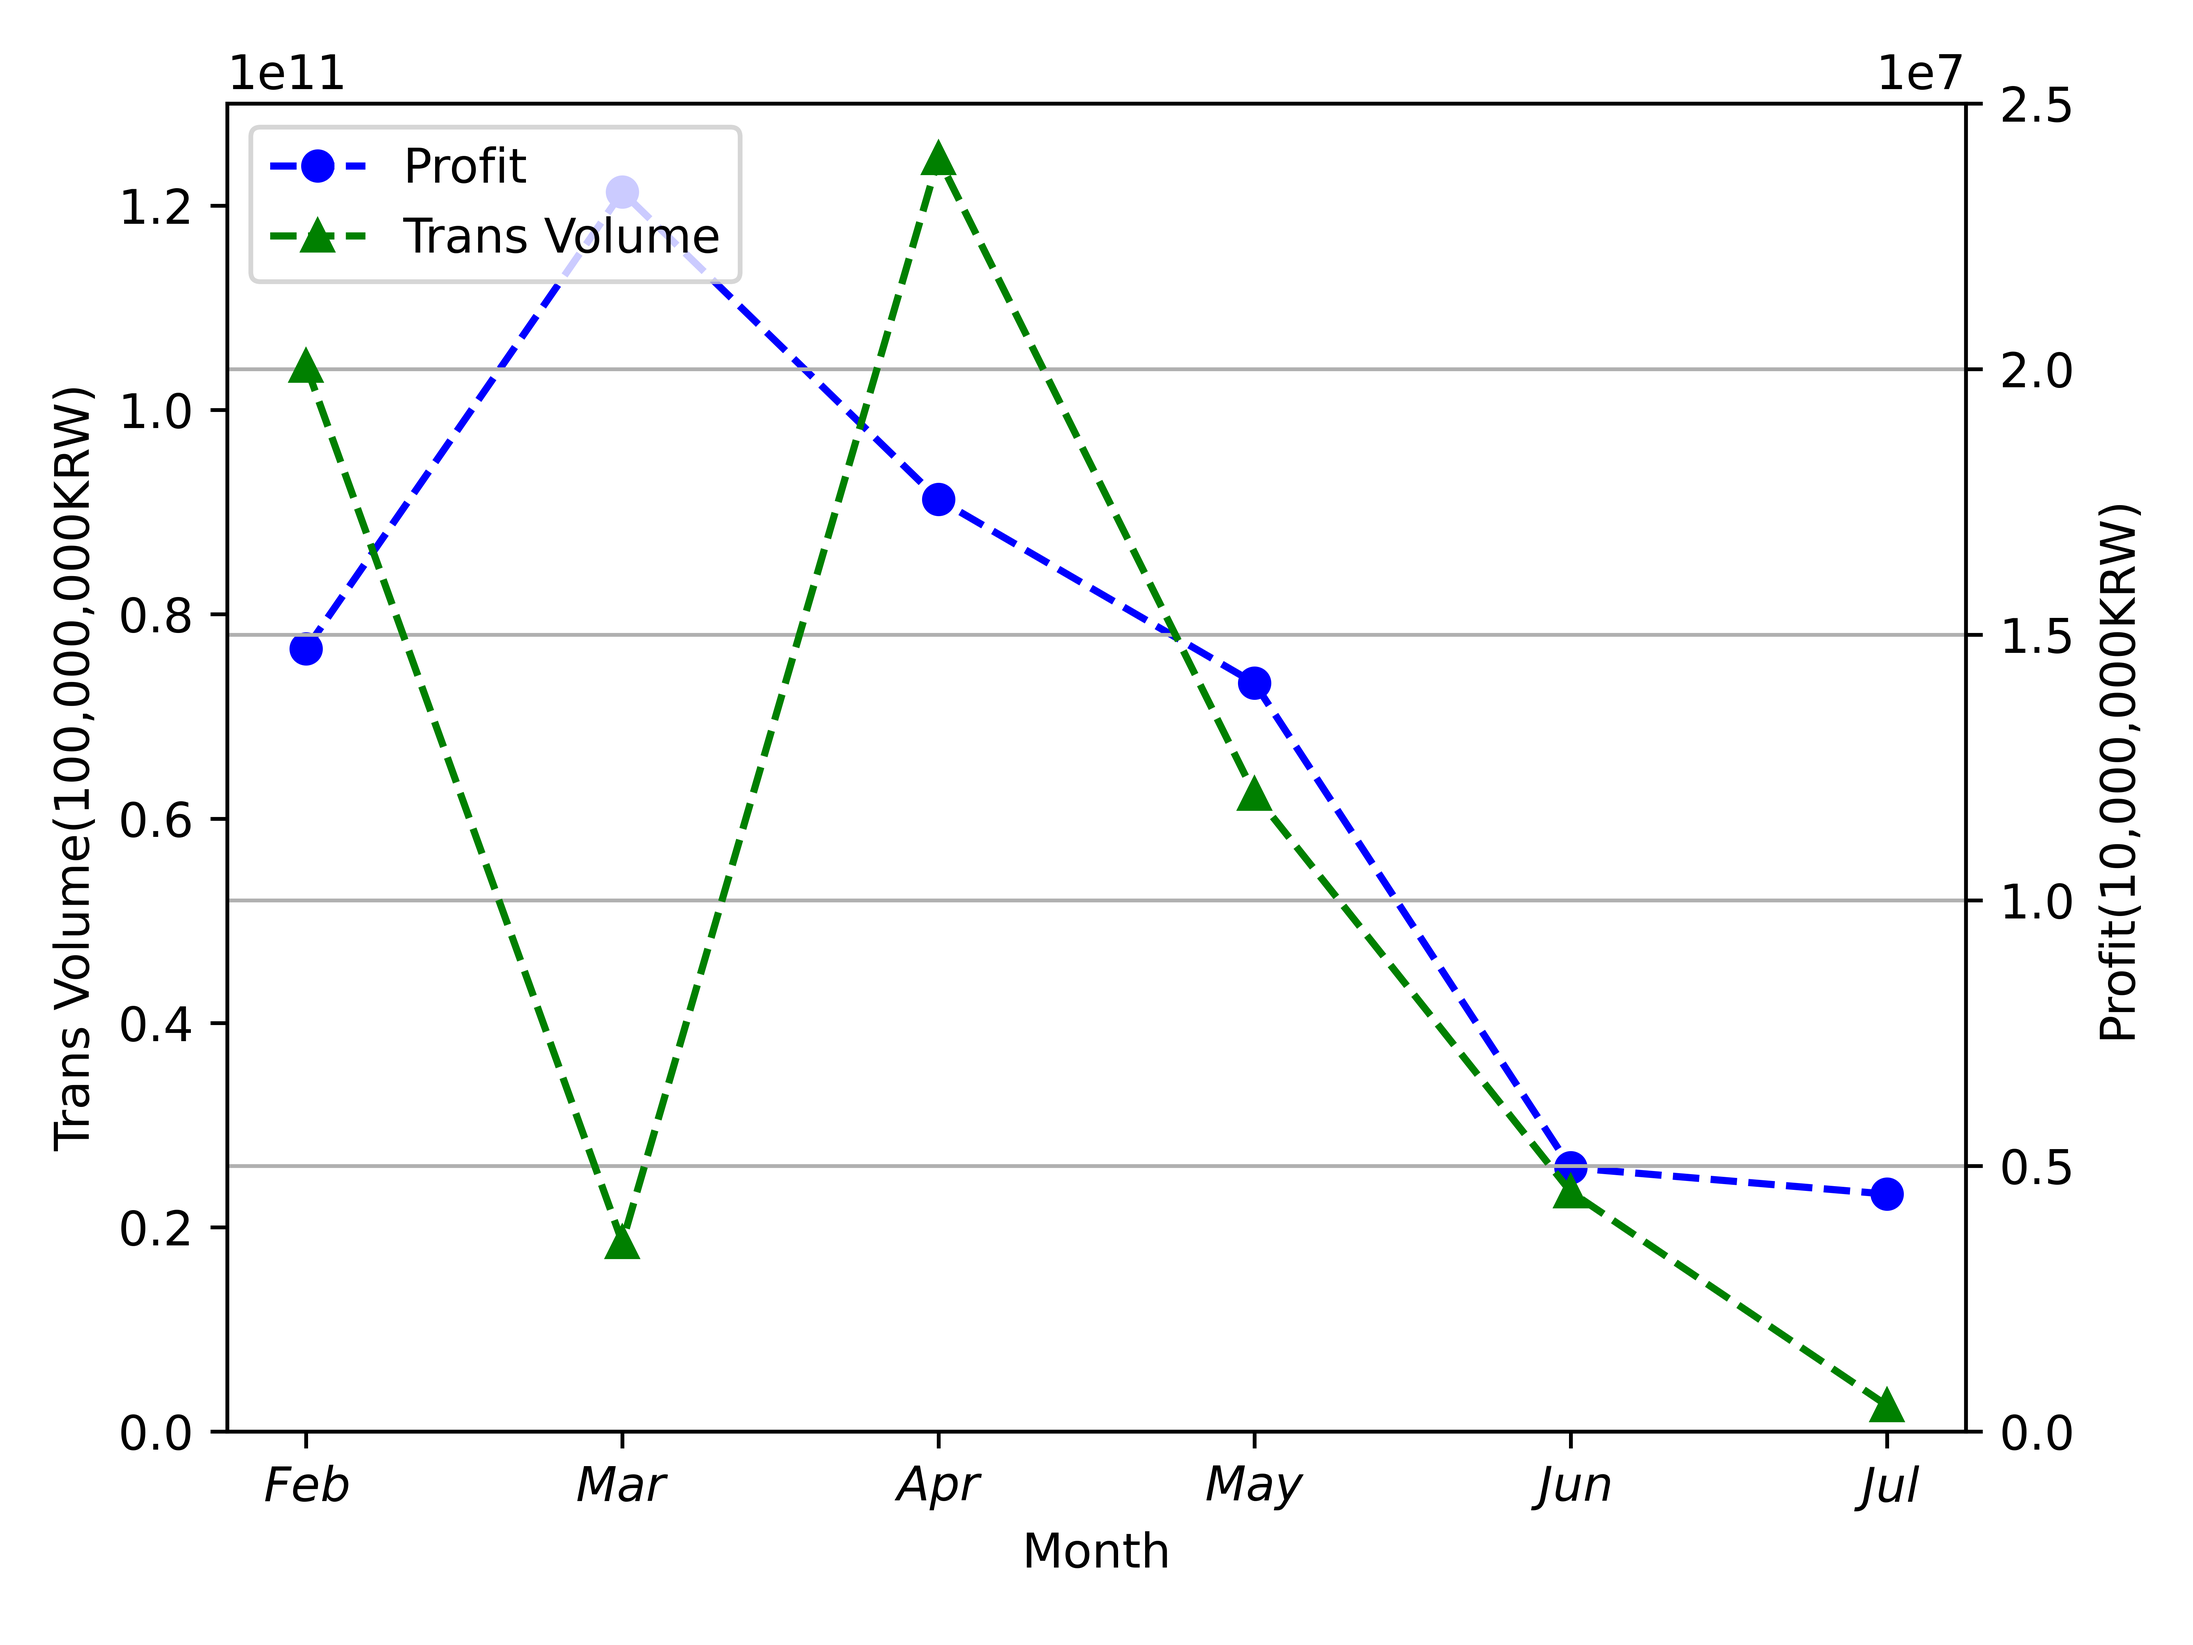
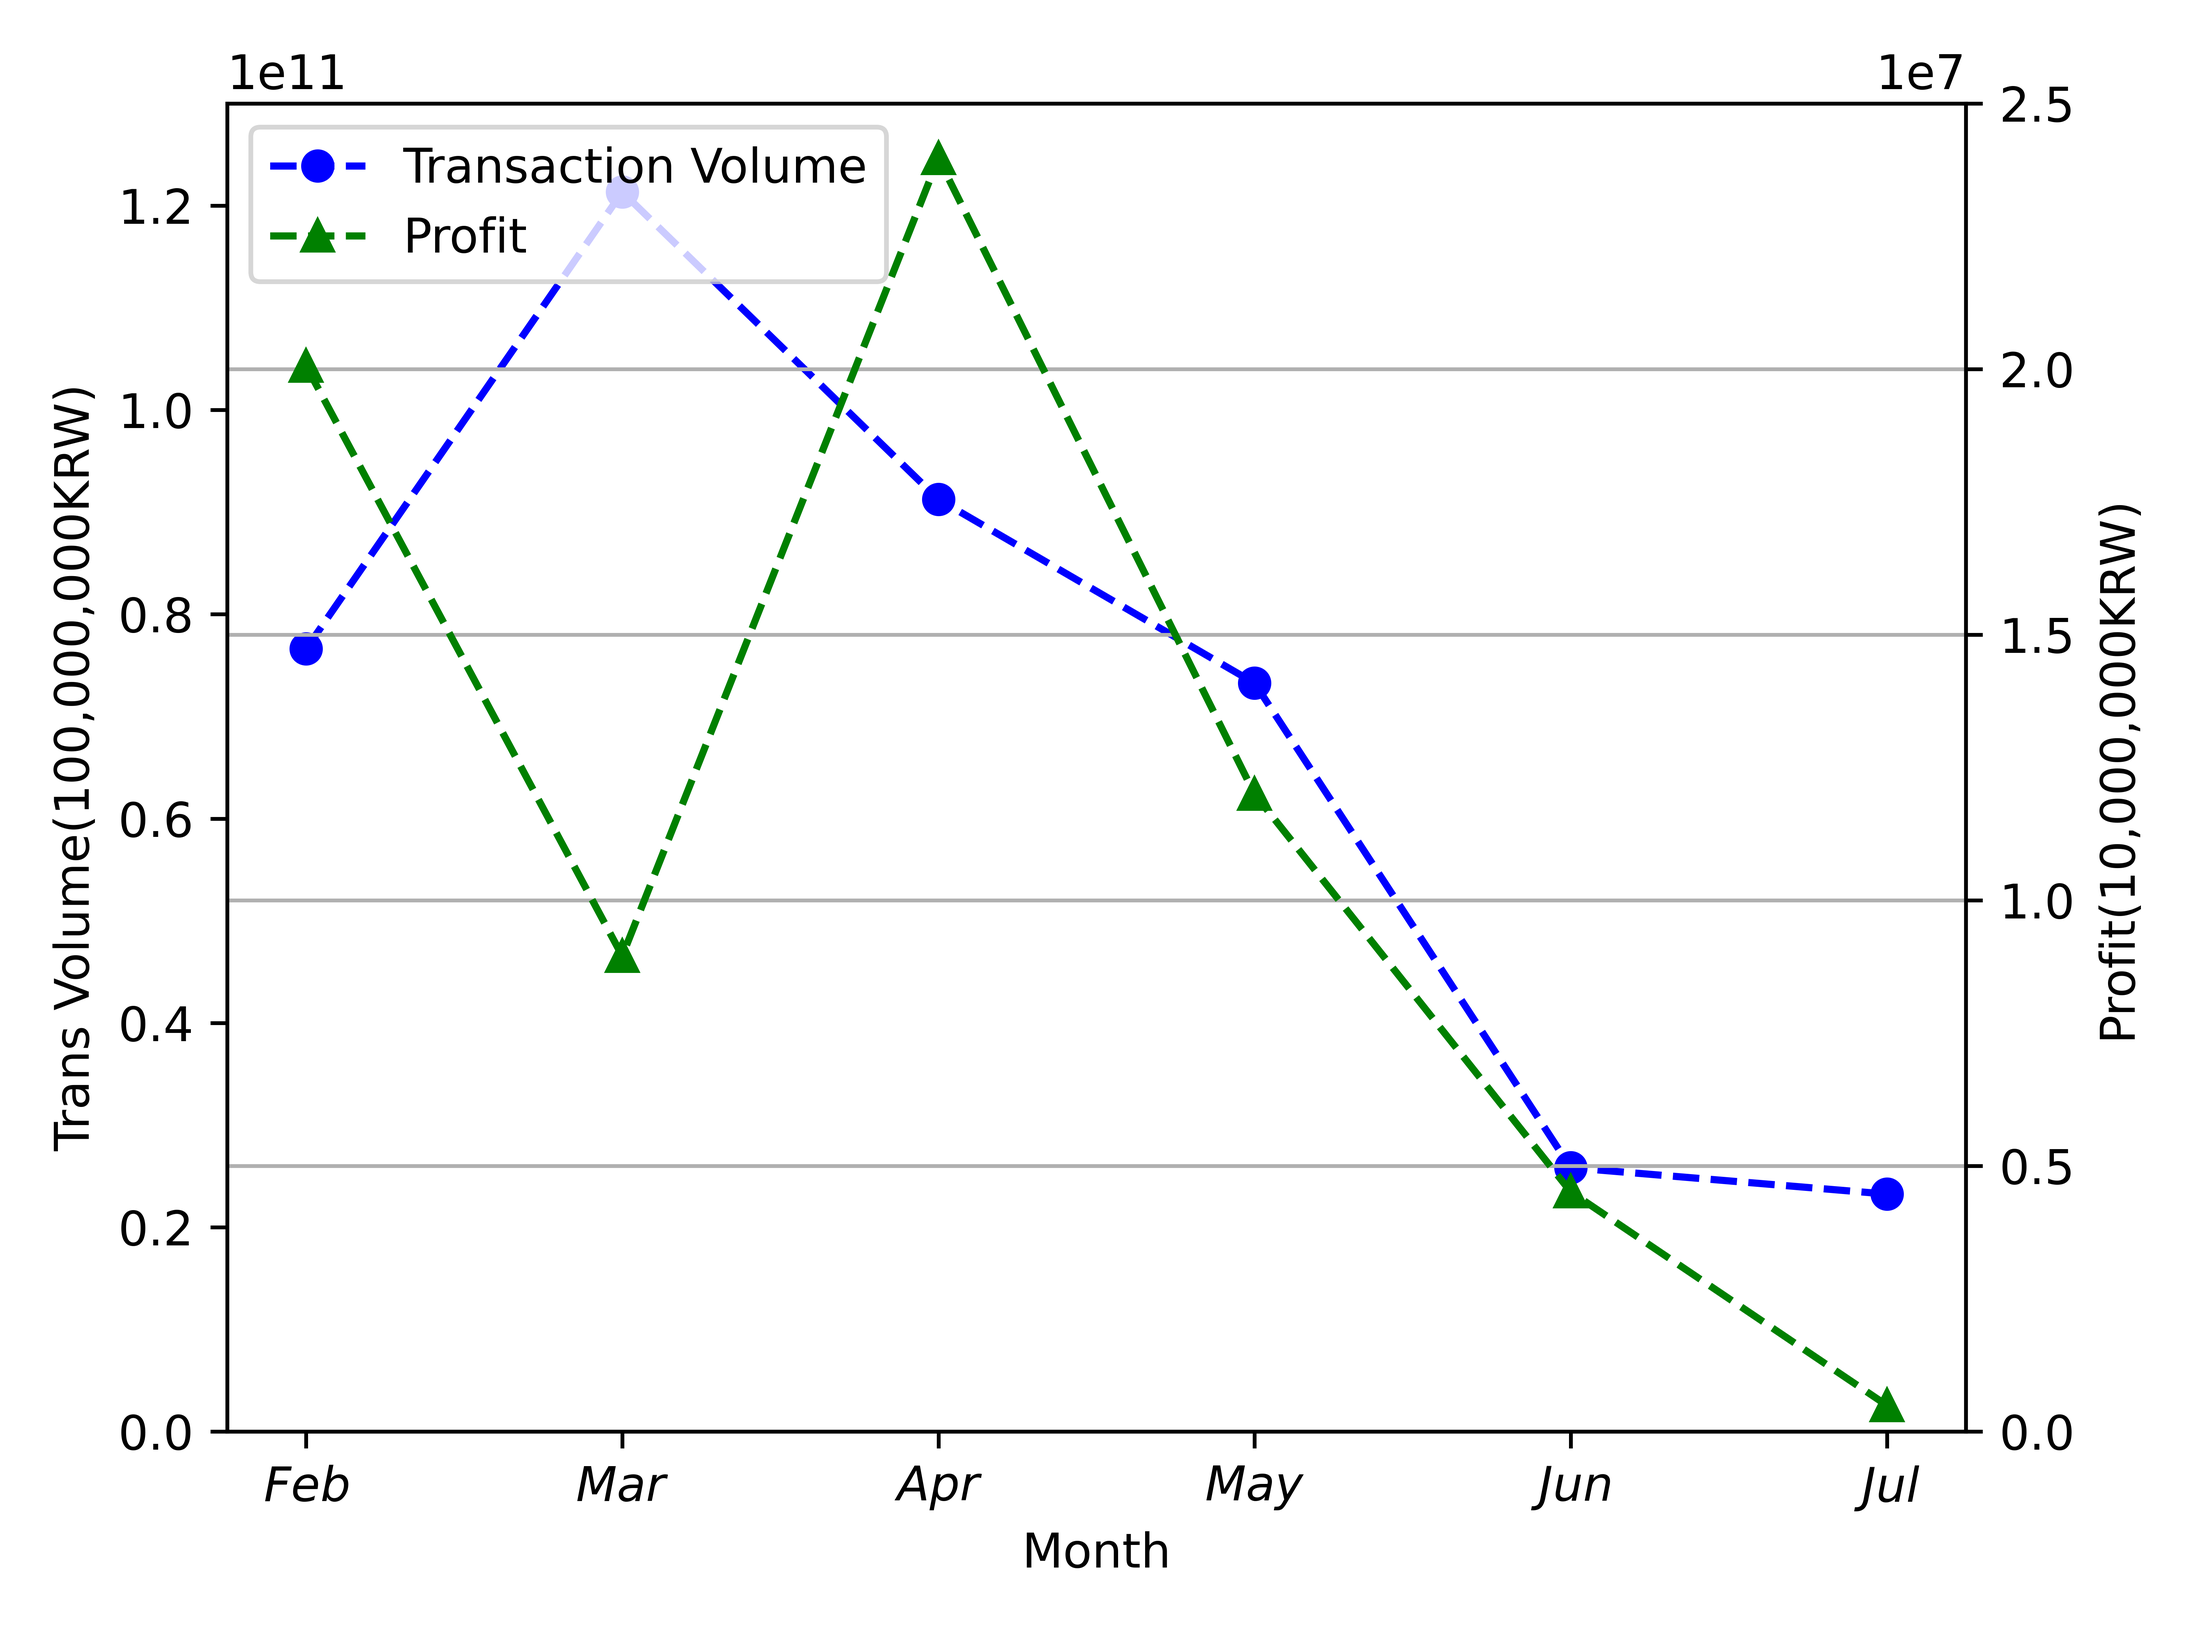
edit trans

diff --git a/Bit/volume-profit.py b/Bit/volume-profit.py
@@ -4,7 +4,7 @@ import matplotlib.pyplot as plt
 
 x = ['Feb','Mar','Apr','May','Jun','Jul']
 y1 = [76615774359,121327294696,91245444410,73256553726,25829874334,23244686413]
-y2 = [20057445,3562946,23967448,11999306,4513842,494149]
+y2 = [20057445,8951034,23967448,11999306,4513842,494149]
 # y3 = data_set['data3']
 
 fig, ax1 = plt.subplots()
@@ -12,8 +12,8 @@ ax2 = ax1.twinx()
 
 # plot with properties
 
-line1 = ax1.plot(np.arange(len(x)), y1, color='b', linestyle='--', marker='o', label='Profit')
-line2 = ax2.plot(np.arange(len(x)), y2, color='g', linestyle='--', marker='^', label='Trans Volume')
+line1 = ax1.plot(np.arange(len(x)), y1, color='b', linestyle='--', marker='o', label='Transaction Volume')
+line2 = ax2.plot(np.arange(len(x)), y2, color='g', linestyle='--', marker='^', label='Profit')
 # line3 = ax2.plot(np.arange(len(x)), y3, color='r', linestyle='--', marker='s', label=title[3])
 
 # plot without x sorting

diff --git a/Bit/volume-Trans.py b/Bit/volume-Trans.py
@@ -12,8 +12,8 @@ ax2 = ax1.twinx()
 
 # plot with properties
 
-line1 = ax1.plot(np.arange(len(x)), y1, color='b', linestyle='--', marker='o', label='Profit')
-line2 = ax2.plot(np.arange(len(x)), y2, color='g', linestyle='--', marker='^', label='Trans Percentage')
+line1 = ax1.plot(np.arange(len(x)), y1, color='b', linestyle='--', marker='o', label='Bithumb Exchange Volume')
+line2 = ax2.plot(np.arange(len(x)), y2, color='g', linestyle='--', marker='^', label='Transaction Percentage')
 # line3 = ax2.plot(np.arange(len(x)), y3, color='r', linestyle='--', marker='s', label=title[3])
 
 # plot without x sorting

diff --git a/Bit/bithumbTransVolume-profit.py b/Bit/bithumbTransVolume-profit.py
@@ -4,7 +4,7 @@ import matplotlib.pyplot as plt
 
 x = ['Feb','Mar','Apr','May','Jun','Jul']
 y1 = [6129825220000,4028287160000,3816150800000,1903469920000,869387920000,897958000000]
-y2 = [20057445,3562946,23967448,11999306,4513842,494149]
+y2 = [20057445,8951034,23967448,11999306,4513842,494149]
 # y3 = data_set['data3']
 
 fig, ax1 = plt.subplots()

diff --git a/Bit/trans-profit.py b/Bit/trans-profit.py
@@ -3,7 +3,7 @@ import numpy as np
 import matplotlib.pyplot as plt
 
 x = ['Feb','Mar','Apr','May','Jun','Jul']
-y1 = [20057445,3562946,23967448,11999306,4513842,494149]
+y1 = [20057445,8951034,23967448,11999306,4513842,494149]
 y2 = [1.25,3.01,2.39,3.85,2.97,2.59]
 # y3 = data_set['data3']
 

diff --git a/Bit/trans.md b/Bit/trans.md
@@ -1,3 +1,9 @@
+# 논의사항
+
+- 종가 or 평균가?
+- bithumb-btc 3월 amount만 더하기
+- upbit-btc 7월
+
 # Bithumb - Bitcoin 2018 거래량 
 
 # Bithumb 2018
@@ -5,7 +11,7 @@
 Month|Jan|Feb|Mar|Apr|May|Jun|Jul|Aug
 -|-|-|-|-|-|-|-|-
 Total Trans|823|18,367|33,149|27,790|23,295|8,779|9,467|4,016
-Profit(KRW)|-|20,057,445|3,562,946|23,967,448|11,999,306|4,513,842|494,149|-
+Profit(KRW)|-|20,057,445|8,951,034|23,967,448|11,999,306|4,513,842|494,149|-
 Sell(KRW)|10,259,898|39,817,915,902|60,669,715,599|45,635,560,225|36,634,276,516|12,917,194,088|11,622,590,281|5,982,790,055
 Buy(KRW)|7,375,346|39,797,858,457|60,657,579,097|45,609,884,185|36,622,277,210|12,912,680,246|11,622,096,132|5,966,645,458
 Total Volume|17,635,244|76,615,774,359|121,327,294,696|91,245,444,410|73,256,553,726|25,829,874,334|23,244,686,413|11,979,435,513
@@ -44,10 +50,90 @@ https://www.coingecko.com/ko/%EC%BD%94%EC%9D%B8/%EB%B9%84%ED%8A%B8%EC%BD%94%EC%9
 
 ![volume-profit](../Bit/volume-profit.png)
 
-- 파랑색 : 수익(KRW)
-- 초록색 : 교수님 거래량(KRW)
+- 초록색 : 수익(KRW)
+- 파랑색 : 교수님 거래량(KRW)
 
 ![volume-trans](../Bit/volume-trans.png)
 
-- 파랑색 : 수익(KRW)
+- 파랑색 : Bithumb 거래소 거래량(KRW)
 - 초록색 : 교수님 거래량(KRW) / Bithumb 거래소 bitcoin 거래량(KRW)
+
+# Upbit Bitcoin 2018 거래량
+
+출처 : 
+https://kr.investing.com/crypto/bitcoin/btc-krw-historical-data?cid=1064952
+
+## Upbit-Bitcoin 계정 거래량
+
+Month|Jul|Aug|Sep|Oct|Nov|Dec|
+-|-|-|-|-|-|-|-|-
+Total Trans|-|"12,215"|"8,658"|"5,054"|"3,985"|"3,672"
+Profit(KRW)|-|"2,958,947"|"1,673,592"|"10,510"|"5,164,420"|"-683,606"
+Sell Volume(KRW)|-|"10,694,677,228"|"6,606,541,721"|"2,966,715,367"|"2,502,715,367"|"1,849,349,267"
+Buy Volume(KRW)|-|"10,680,392,607"|"6,575,624,895"|"2,980,863,347"|"2,488,491,381"|"1,850,032,873"
+Total Volume(KRW)|-|"21,375,069,835"|"13,182,166,616"|"5,947,578,714"|"4,991,206,748"|"3,699,382,140"
+
+## Upbit-Bitcoin 거래소 거래량
+Month|Jul|Aug|Sep|Oct|Nov|Dec|
+-|-|-|-|-|-|-|-|-
+Total trans(BTC)|"258,193"|"150,040"|"99,150"|"72,193"|"202,720"|"256,130"
+Average(KRW)|"8,015,903"|"7,658,355"|"7,464,400"|"7,323,839"|"6,154,700"|"4,148,516"
+Closing price(KRW)|"8,807,000"|"7,872,000"|"7,393,000"|"7,162,000"|"4,567,000"|"4,201,000"
+Total trans(KRW)|"2,069,650,043,279"|"1,149,059,584,200"|"740,095,260,000"|"528,729,908,927"|"1,247,680,784,000"|"1,062,559,403,080"
+Young/Total|0|1.860222927|1.781144581|1.124880324|0.400038761|0.348157678,
+
+- Total trans는 Total trans(BTC) *  월별 평균 가격으로 계산.
+
+# Upbit Bitcoin 2019 거래량
+
+출처 : 
+https://kr.investing.com/crypto/bitcoin/btc-krw-historical-data?cid=1064952
+
+## Upbit-Bitcoin 계정 거래량
+
+Month|Feb|May|Jun|Jul|
+-|-|-|-|-|-|-|-|-
+Total Trans|"4,579"|"17,622"|"37,907"|"19,652"
+Profit(KRW)|"-135,473"|"1,728,400"|"1,513,153"|"-2,666,093"
+Sell Volume(KRW)|"2,415,870,049"|"16,416,783,692"|"32,973,943,190"|"25,367,995,572"
+Buy Volume(KRW)|"2,416,005,522"|"16,415,055,292"|"32,879,246,140"|"25,364,586,093"
+Total Volume(KRW)|"4,831,875,571"|"32,831,838,984"|"65,853,189,330"|"50,732,581,665"
+
+## Upbit-Bitcoin 거래소 거래량
+
+Month|Feb|May|Jun|Jul|
+-|-|-|-|-|-|-|-|-
+Total trans(BTC)|"149,410"|"364,280"|"395,380"|"487,020"
+Average(KRW)|"4,066,071"|"8,654,355"|"11,357,900"|"12,781,129"
+Closing price(KRW)|"4,241,000"|"10,372,000"|"13,566,000"|"11,949,000"
+Total trans(KRW)|"607,511,668,110"|"3,152,608,439,400"|"4,490,686,502,000"|"6,224,665,445,580"
+Young/Total|0.795355188|1.041418229|1.466439247|0.815025034
+
+- Total trans는 Total trans(BTC) *  월별 평균 가격으로 계산.
+
+# Bithumb EOS 2018 거래량
+
+출처 : 
+EOS-Bithumb-https://kr.investing.com/crypto/eos/eos-krw-historical-data?cid=1119420
+
+## Bithumb-EOS 계정 거래량
+
+Month|Apr|May|Jun|Jul|
+-|-|-|-|-|-|-|-|-
+Total Trans|
+Profit(KRW)|
+Sell Volume(KRW)|
+Buy Volume(KRW)|
+Total Volume(KRW)|
+
+## Bithumb-EOS 거래소 거래량
+
+Month|Apr|May|Jun|Jul|
+-|-|-|-|-|-|-|-|-
+Total trans(BTC)|
+Average(KRW)|
+Closing price(KRW)|
+Total trans(KRW)|
+Young/Total|
+
+- Total trans는 Total trans(BTC) *  월별 평균 가격으로 계산.
